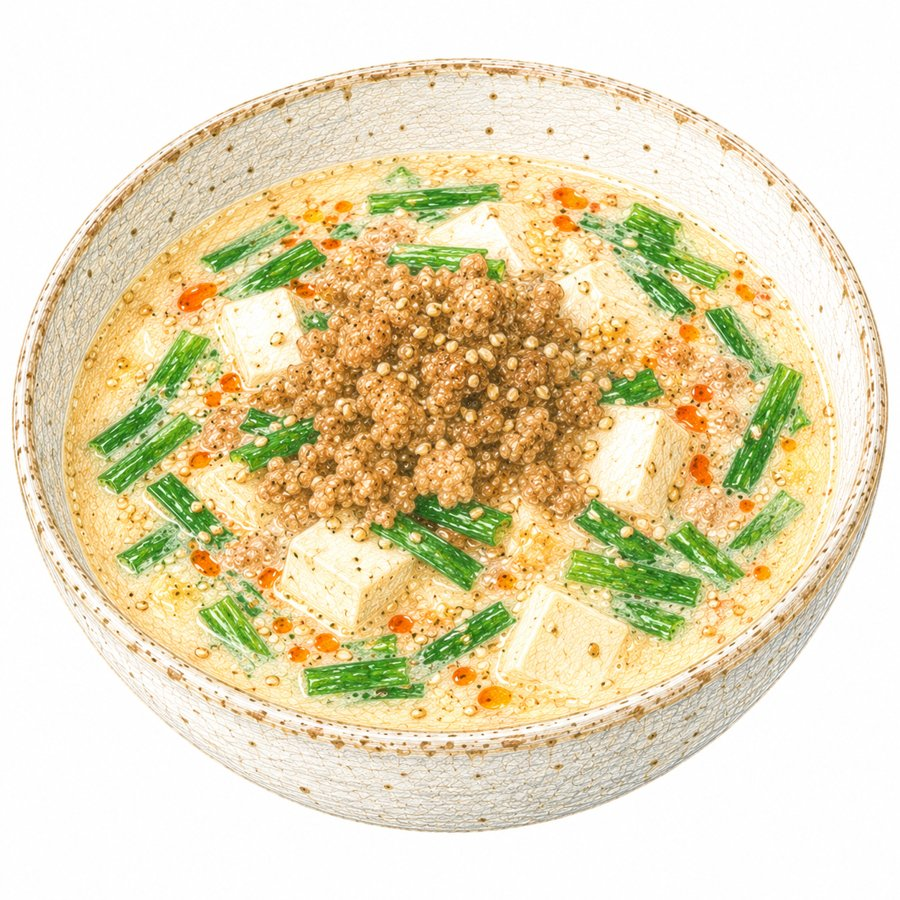
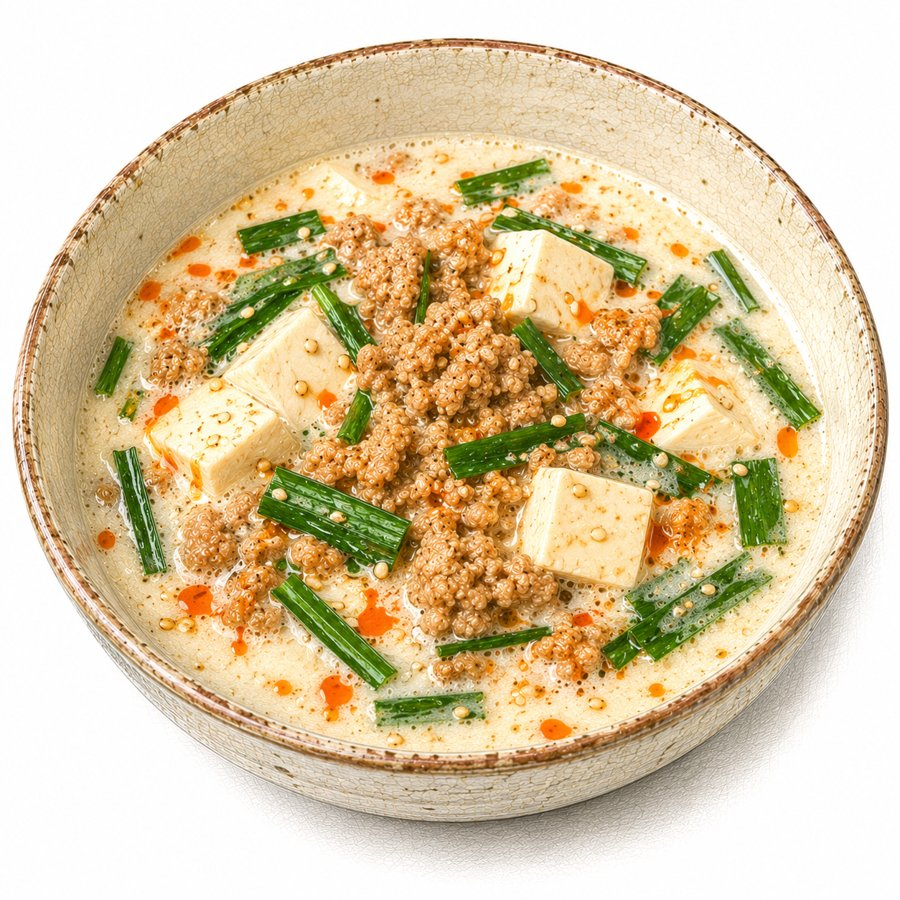
Add files via upload

diff --git a/recipe/index.html b/recipe/index.html
@@ -4,6 +4,9 @@
   <meta charset="UTF-8">
   <meta name="viewport" content="width=device-width, initial-scale=1.0">
   <title>麹レシピ | HIBINO KOJI</title>
+  <link rel="preconnect" href="https://fonts.googleapis.com">
+  <link rel="preconnect" href="https://fonts.gstatic.com" crossorigin>
+  <link href="https://fonts.googleapis.com/css2?family=Klee+One:wght@400;600&display=swap" rel="stylesheet">
   <style>
     /* ===== 図鑑スタイル（みかんな図鑑風） ===== */
     * { margin: 0; padding: 0; box-sizing: border-box; }
@@ -162,12 +165,14 @@
     }
 
     .hero-banner h1 {
-      font-size: clamp(26px, 4vw, 40px);
-      font-weight: 800;
+      font-family: 'Klee One', 'Hiragino Maru Gothic ProN', sans-serif;
+      font-weight: 600;
+      font-size: clamp(22px, 3.4vw, 34px);
+      font-weight: 400;
       color: var(--text);
-      letter-spacing: 0.08em;
+      letter-spacing: 0.06em;
       margin-bottom: 16px;
-      line-height: 1.6;
+      line-height: 1.8;
     }
 
     .hero-banner p {
@@ -256,11 +261,11 @@
     }
 
     .card-photo {
-      width: 100%;
+      width: 55%;                 /* 画像はカード幅の約半分 */
       aspect-ratio: 1 / 1;
       position: relative;
       overflow: hidden;
-      margin-bottom: 12px;
+      margin: 8px auto 12px;      /* 中央寄せ */
       border-radius: 16px;
     }
 
@@ -303,16 +308,18 @@
 
     .card-cat-badge {
       position: absolute;
-      top: 10px;
-      left: 10px;
-      font-size: 10px;
+      top: -4px;
+      left: 50%;
+      transform: translateX(-50%);
+      font-size: 9px;
       font-weight: 700;
       letter-spacing: 0.08em;
-      padding: 4px 12px;
-      background: rgba(255,255,255,0.92);
-      color: var(--text);
+      padding: 3px 10px;
+      background: var(--tag-bg);
+      color: var(--accent-dark);
       border-radius: 999px;
       z-index: 1;
+      white-space: nowrap;
     }
 
     .card-title {
@@ -936,6 +943,7 @@ const recipes = [
     color: "color-tamanegi",
     emoji: "🍄",
     title: "玉ねぎ麹の椎茸ポタージュ",
+    image: "shiitake-potage.jpg",
     desc: "玉ねぎ麹で深みのある旨みが出るのでコンソメ不要。椎茸の香りが引き立つやさしいスープ。",
     time: "25分",
     serving: "2人分",
@@ -1053,6 +1061,7 @@ const recipes = [
     color: "color-shoyukoji",
     emoji: "🥗",
     title: "醤油麹の大根サラダ",
+    image: "daikon-salad.jpg",
     desc: "しょうゆ麹とかつお粉の旨みでデパ地下風の味わいに。シャキシャキ食感がうれしい、たっぷり食べられるサラダ。",
     time: "10分",
     serving: "4〜5人分",
@@ -1080,6 +1089,7 @@ const recipes = [
     color: "color-tamanegi",
     emoji: "🥣",
     title: "玉ねぎ麹の和風ドレッシング",
+    image: "wafu-dressing.jpg",
     desc: "玉ねぎ麹の旨みにみそのコクをプラス。まぜるだけで完成する、野菜がもりもり食べられる和風だれ。",
     time: "3分",
     serving: "1回分",
@@ -1103,6 +1113,7 @@ const recipes = [
     color: "color-tamanegi",
     emoji: "🥗",
     title: "玉ねぎ麹の洋風ドレッシング",
+    image: "yofu-dressing.jpg",
     desc: "オリーブオイルと玉ねぎ麹で作る本格ドレッシング。グリーンサラダやカルパッチョにぴったり。",
     time: "3分",
     serving: "1回分",
@@ -1191,6 +1202,7 @@ const recipes = [
     color: "color-shoyukoji",
     emoji: "🍚",
     title: "鮭とごぼうの醤油麹炊き込みご飯",
+    image: "takikomi.jpg",
     desc: "しょうゆ麹に漬けた鮭の旨みがご飯にじんわり。ごぼうとまいたけの香りで、おかわりが止まらない秋の味。",
     time: "60分",
     serving: "3〜4人分",
@@ -1222,6 +1234,7 @@ const recipes = [
     color: "color-shiokoji",
     emoji: "🐟",
     title: "鯖の塩麹カレー焼き",
+    image: "saba-curryyaki.jpg",
     desc: "塩麹とカレー粉の黄金コンビ。米粉でカリッと揚げ焼きにした、子どもも大好きなさばおかず。",
     time: "25分",
     serving: "2人分",
@@ -1310,6 +1323,7 @@ const recipes = [
     color: "color-tamanegi",
     emoji: "🍗",
     title: "鶏と野菜の玉ねぎ麹オーブン焼き",
+    image: "oven-yaki.jpg",
     desc: "塩麹＆玉ねぎ麹のダブル麹使い！オーブンにお任せで、ごちそう感たっぷりの一皿が完成します。",
     time: "60分",
     serving: "3〜4人分",
@@ -1342,6 +1356,7 @@ const recipes = [
     color: "color-shoyukoji",
     emoji: "🥒",
     title: "大根の醤油麹浅漬け",
+    image: "daikon-asazuke.jpg",
     desc: "袋で揉んで冷やすだけ。醤油麹の旨みと昆布のだしがじんわりしみた、あと一品にうれしい浅漬け。",
     time: "10分",
     serving: "作りやすい量",
@@ -1367,6 +1382,7 @@ const recipes = [
     color: "color-tamanegi",
     emoji: "🧈",
     title: "玉ねぎ麹の香草バター",
+    image: "koso-butter.jpg",
     desc: "パセリと玉ねぎ麹を混ぜ込んだ、旨みたっぷりの香草バター。パンにも肉にも魚にも合う万能ストック。",
     time: "10分",
     serving: "作りやすい量",
@@ -1391,6 +1407,7 @@ const recipes = [
     color: "color-amazakoji",
     emoji: "🍖",
     title: "お肉の甘麹ほろほろ焼き",
+    image: "horohoro.jpg",
     desc: "炊飯器にお任せするだけで、お肉がほろほろに！鶏・豚・牛、どんなお肉でも作れる魔法のレシピ。",
     time: "5分（＋炊飯時間）",
     serving: "2人分",
@@ -1416,6 +1433,7 @@ const recipes = [
     color: "color-ninniku",
     emoji: "🥬",
     title: "ほうれん草のにんにく麹ごま和え",
+    image: "gomaae.jpg",
     desc: "にんにく麹とすりごまだけで味が決まる、あと一品にうれしい和えもの。小松菜やいんげんなど、お好きな野菜でどうぞ。",
     time: "10分",
     serving: "2〜3人分",
@@ -1440,6 +1458,7 @@ const recipes = [
     color: "color-ninniku",
     emoji: "🌱",
     title: "にんにく麹の万能ナムル",
+    image: "ninniku-namuru.jpg",
     desc: "にんにく麹とごま油があれば、あっという間に本格ナムル。もやしでも、にんじんでも、お好きな野菜で作れます。",
     time: "10分",
     serving: "2〜3人分",
@@ -1542,6 +1561,7 @@ const recipes = [
     color: "color-shoyukoji",
     emoji: "🥩",
     title: "豚の醤油麹生姜焼き",
+    image: "shogayaki.jpg",
     desc: "醤油麹とみりんのタレに揉み込むだけ。麹の力でお肉やわらか、コク旨な定番おかずです。",
     time: "20分",
     serving: "2人分",
@@ -1569,6 +1589,7 @@ const recipes = [
     color: "color-shoyukoji",
     emoji: "🥢",
     title: "オクラとめかぶの醤油麹あえ",
+    image: "okra-mekabu.jpg",
     desc: "和えるだけ5分、調味料は醤油麹ひとつ。ネバネバ×麹の力で、ごはんにも豆腐にもかけたい健康副菜。",
     time: "5分",
     serving: "2人分",
@@ -1592,6 +1613,7 @@ const recipes = [
     color: "color-shoyukoji",
     emoji: "🌽",
     title: "醤油麹バターコーン",
+    image: "butter-corn.jpg",
     desc: "バターの香りに醤油麹の香ばしい旨み。子どもも大人もやみつきになる、5分でできる鉄板おかず。",
     time: "5分",
     serving: "2人分",
@@ -1617,6 +1639,7 @@ const recipes = [
     color: "color-amazakoji",
     emoji: "🍨",
     title: "甘麹アイス",
+    image: "ama-ice.jpg",
     desc: "甘みは甘麹だけ。混ぜて凍らせるだけなのに、驚くほどコクのあるやさしい甘さのアイスができます。",
     time: "10分（冷凍時間別）",
     serving: "3〜4人分",
@@ -1641,6 +1664,7 @@ const recipes = [
     color: "color-amazakoji",
     emoji: "🍞",
     title: "甘麹ラスク",
+    image: "rusk.jpg",
     desc: "材料は3つだけ。甘麹を塗って焼くだけで、素朴でやさしい甘さのヘルシーラスクが完成します。",
     time: "20分",
     serving: "2〜3人分",
@@ -1665,6 +1689,7 @@ const recipes = [
     color: "color-amazakoji",
     emoji: "🥕",
     title: "甘麹ひじき煮",
+    image: "hijiki.jpg",
     desc: "砂糖もみりんも使わず、甘みは甘麹におまかせ。ふっくらやさしい味の、毎日食べたい常備菜です。",
     time: "20分",
     serving: "3〜4人分",
@@ -1693,6 +1718,7 @@ const recipes = [
     color: "color-amazakoji",
     emoji: "🍓",
     title: "フルーツ甘酒",
+    image: "fruit-amazake.jpg",
     desc: "甘麹とお好きなフルーツをまぜるだけ。砂糖なしで満足感たっぷりの、飲むデザートです。",
     time: "5分",
     serving: "1人分",
@@ -1717,6 +1743,7 @@ const recipes = [
     color: "color-tamanegi",
     emoji: "🌶",
     title: "玉ねぎ麹の麻婆豆腐",
+    image: "mabo.jpg",
     desc: "玉ねぎ麹とみそだけで、コク深い本格麻婆に。辛くないので子どももOK、大人はラー油をプラスして。",
     time: "20分",
     serving: "2人分",
@@ -1747,6 +1774,7 @@ const recipes = [
     color: "color-tamanegi",
     emoji: "🍚",
     title: "玉ねぎ麹のツナチャーハン",
+    image: "chahan.jpg",
     desc: "味つけの主役は玉ねぎ麹。旨みたっぷりなのにやさしい味わいの、パパッと作れるお助けごはん。",
     time: "10分",
     serving: "2人分",
@@ -1776,6 +1804,7 @@ const recipes = [
     color: "color-tamanegi",
     emoji: "🥚",
     title: "玉ねぎ麹の卵スープ",
+    image: "tamago-soup.jpg",
     desc: "だしもコンソメもいらない、調味料は玉ねぎ麹ひとつ。体にしみわたる、やさしい味の即席スープ。",
     time: "10分",
     serving: "2人分",
@@ -1801,6 +1830,7 @@ const recipes = [
     color: "color-tamanegi",
     emoji: "🍵",
     title: "玉ねぎ麹の即席みそ汁",
+    image: "misoshiru.jpg",
     desc: "お椀に入れてお湯を注ぐだけ、だし不要。忙しい朝の味方になる、究極にかんたんなみそ汁です。",
     time: "2分",
     serving: "1人分",
@@ -1825,6 +1855,7 @@ const recipes = [
     color: "color-tamanegi",
     emoji: "🍜",
     title: "玉ねぎ麹のきのこうどん",
+    image: "kinoko-udon.jpg",
     desc: "干し椎茸のだしと玉ねぎ麹の旨みが溶け合う、ほっとする味。胃腸にやさしい、体いたわりうどんです。",
     time: "20分（椎茸の戻し時間別）",
     serving: "2人分",
@@ -1980,6 +2011,7 @@ const recipes = [
     color: "color-shoyukoji",
     emoji: "🥚",
     title: "醤油麹のたまごかけごはん",
+    image: "tkg.jpg",
     desc: "いつものお醤油を醤油麹に変えるだけ。とろりとした麹がごはんとたまごに絡み、濃厚な旨みが口いっぱいに広がります。",
     time: "3分",
     serving: "1人分",
@@ -2002,6 +2034,7 @@ const recipes = [
     color: "color-shoyukoji",
     emoji: "🥄",
     title: "醤油麹の3種万能だれ",
+    image: "shoyu-tare3.jpg",
     desc: "これさえあれば味付けに迷わない！作り置きにも便利な特製だれ。",
     time: "3分",
     serving: "作りやすい量",
@@ -2026,6 +2059,7 @@ const recipes = [
     color: "color-shoyukoji",
     emoji: "🥒",
     title: "きゅうりの醤油麹一本漬け",
+    image: "kyuri-ippon.jpg",
     desc: "ポリ袋に入れて揉むだけで、味がしっかり染み込んだ、美味しい即席漬物が完成。醤油麹の酵素が、きゅうりの食感をパリパリに保ちます。",
     time: "10分",
     serving: "1人分",
@@ -2048,6 +2082,7 @@ const recipes = [
     color: "color-shoyukoji",
     emoji: "🍗",
     title: "鶏の醤油麹照り焼き",
+    image: "tori-teriyaki.jpg",
     desc: "醤油麹の力でお肉やわらか、味しっかり。お弁当に入れても冷めても美味しい定番おかずです。",
     time: "25分（漬け時間別）",
     serving: "2人分",
@@ -2076,6 +2111,7 @@ const recipes = [
     color: "color-shoyukoji",
     emoji: "🐟",
     title: "ぶりの醤油麹照り焼き",
+    image: "buri-teriyaki.jpg",
     desc: "醤油麹に漬け込むことで、魚の臭みが消え、身はふっくら。",
     time: "15分（漬け時間別）",
     serving: "2人分",
@@ -2099,6 +2135,7 @@ const recipes = [
     color: "color-shoyukoji",
     emoji: "🍣",
     title: "醤油麹漬け丼",
+    image: "zukedon.jpg",
     desc: "お好みのお刺身を麹だれにさっと和えるだけ。麹の旨みでワンランク上の漬け丼に。",
     time: "15分",
     serving: "2人分",
@@ -2124,6 +2161,7 @@ const recipes = [
     color: "color-tamanegi",
     emoji: "🥗",
     title: "玉ねぎ麹の3種万能ドレッシング",
+    image: "tama-dressing3.jpg",
     desc: "混ぜるだけで完成する3つの味。サラダからマリネ、ディップまで大活躍の黄金比です。",
     time: "3分",
     serving: "作りやすい量",
@@ -2148,6 +2186,7 @@ const recipes = [
     color: "color-tamanegi",
     emoji: "🍳",
     title: "玉ねぎ麹のスクランブルエッグ",
+    image: "scramble.jpg",
     desc: "玉ねぎ麹の旨みで、いつもの卵がホテルの朝食みたいなとろとろふわふわに。チーズやハムを加えても絶品！",
     time: "5分",
     serving: "1〜2人分",
@@ -2173,6 +2212,7 @@ const recipes = [
     color: "color-tamanegi",
     emoji: "🍖",
     title: "鶏肉の玉ねぎ麹ステーキ",
+    image: "tori-steak.jpg",
     desc: "玉ねぎの甘みと旨味が染み込み、冷めても美味しいのでお弁当にも最適です。",
     time: "20分（漬け時間別）",
     serving: "1枚分",
@@ -2198,6 +2238,7 @@ const recipes = [
     color: "color-tamanegi",
     emoji: "🍄",
     title: "玉ねぎ麹のマッシュルームポタージュ",
+    image: "mushroom-potage.jpg",
     desc: "玉ねぎ麹が、コンソメを使わなくても十分なコクと旨味の土台を作ってくれます。",
     time: "30分",
     serving: "2人分",
@@ -2228,6 +2269,7 @@ const recipes = [
     color: "color-tamanegi",
     emoji: "🥘",
     title: "玉ねぎ麹の和風ポトフ",
+    image: "wafu-potofu.jpg",
     desc: "だしと玉ねぎ麹のやさしい旨みで、野菜の甘みがしみじみ美味しい和風ポトフです。",
     time: "30分",
     serving: "2〜3人分",
@@ -2255,6 +2297,7 @@ const recipes = [
     color: "color-ninniku",
     emoji: "🧄",
     title: "にんにく麹の万能だれ4種",
+    image: "ninniku-tare4.jpg",
     desc: "混ぜるだけで、いつもの食材がごちそうに。ナムルから香味だれまで、覚えておきたい4つの黄金比。",
     time: "3分",
     serving: "作りやすい量",
@@ -2281,6 +2324,7 @@ const recipes = [
     color: "color-ninniku",
     emoji: "🥩",
     title: "にんにく麹のガリバタポークステーキ",
+    image: "garibata-pork.jpg",
     desc: "にんにく麹の旨みとバターの香りで、ごはんが止まらないガッツリメイン。一晩漬けるとさらに柔らかく。",
     time: "20分（漬け時間別）",
     serving: "1枚分",
@@ -2310,6 +2354,7 @@ const recipes = [
     color: "color-ninniku",
     emoji: "🥟",
     title: "にんにく麹餃子",
+    image: "gyoza.jpg",
     desc: "にんにく麹の旨みがしっかり効いているので、タレなしでも美味しくいただけます。",
     time: "40分",
     serving: "25個分",
